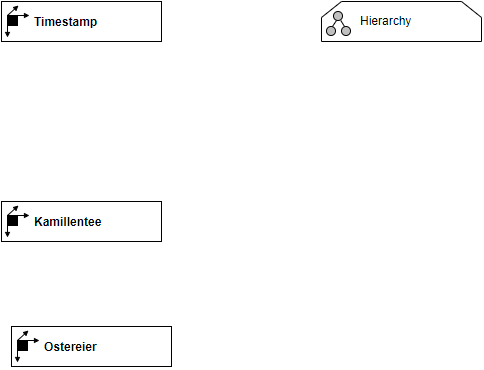
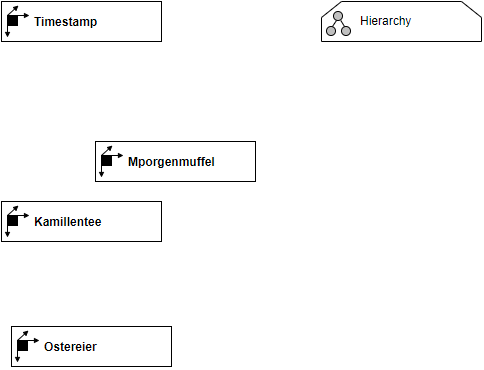
Automatisches Update via Skript

Changed region(s): [[0.186, 0.3865, 0.4649, 0.4757]]

diff --git a/extract_drawio_ADAPT.py b/extract_drawio_ADAPT.py
@@ -20,7 +20,7 @@ def extract_information(xml_path, base_name):
     shapes = []
     connections = []
 
-    print(f"\n-----------------------------------------------------------------")
+    print(f"\n------------------------------------------------------------------------------------------------------------")
     print(f"Processing {xml_path}")
    
     # Iterate through UserObjects and mxCells

diff --git a/docs/DimTimestamp.md b/docs/DimTimestamp.md
@@ -6,11 +6,11 @@
 |Shape ID|Shape Type|Label|
 |--------|----------|-----|
 |DimTimestamp.JcKF2ojR-ty8W29sog4p-49|Dimension|Timestamp|
-|DimTimestamp.JcKF2ojR-ty8W29sog4p-40|Dimension|GGG|
 |DimTimestamp.JcKF2ojR-ty8W29sog4p-71|Dimension|Kamillentee|
 |DimTimestamp.JcKF2ojR-ty8W29sog4p-72|Dimension|GGG|
 |DimTimestamp.JcKF2ojR-ty8W29sog4p-77|Dimension|Ostereier|
 |DimTimestamp.JcKF2ojR-ty8W29sog4p-78|Dimension|GGG|
+|DimTimestamp.JcKF2ojR-ty8W29sog4p-83|Dimension|Mporgenmuffel|
 
 ## recognized connections from b.telligent ADAPT library:
 
